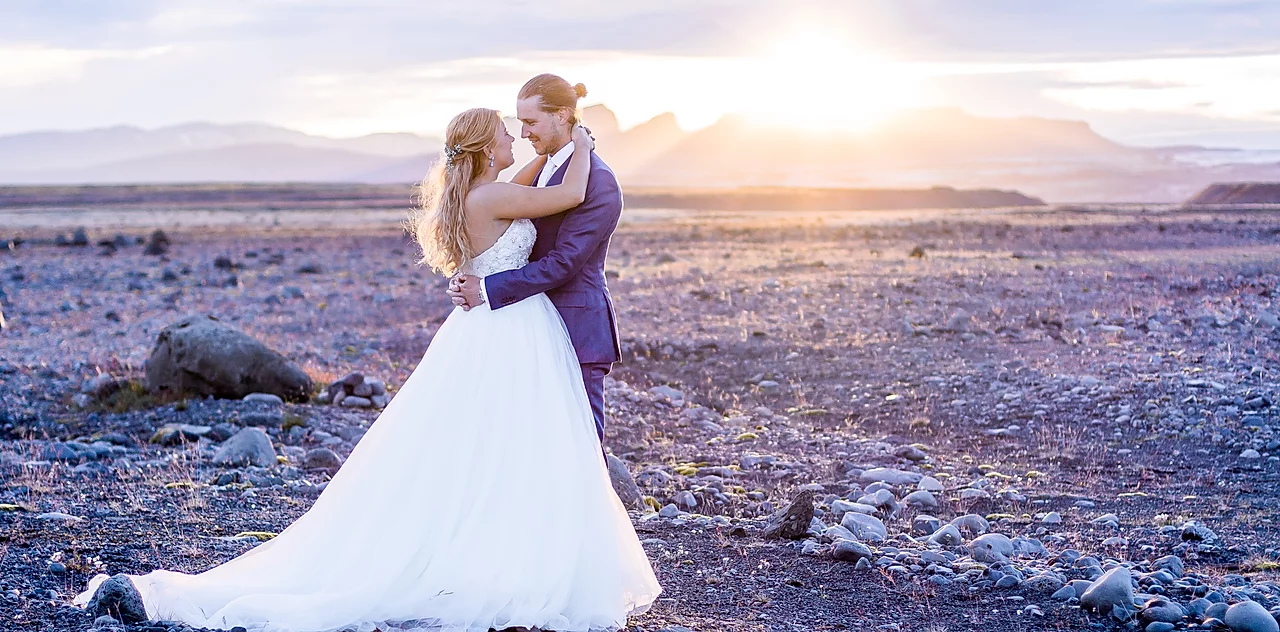
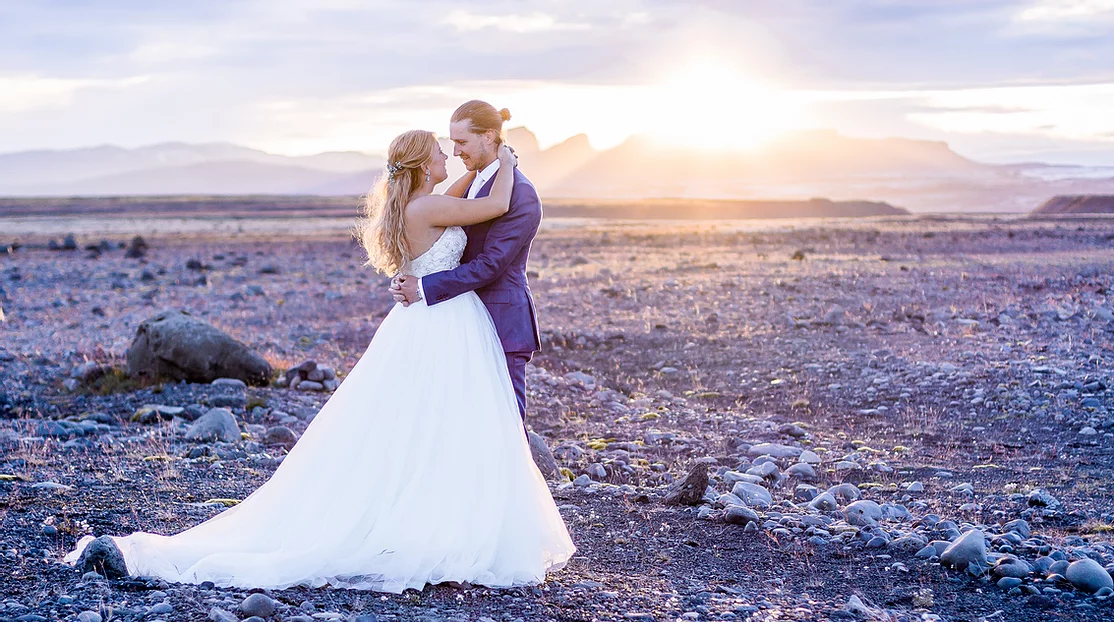
some updates

diff --git a/styles.css b/styles.css
@@ -28,9 +28,57 @@ label,
     padding-left: 20px;
 }
 
-#navbarTogglerDemo01 img {
+#logo {
     padding: 15px 15px 0;
 }
+#logo:after {
+  
+    animation: shine 5s ease-in-out  infinite;
+    animation-fill-mode: forwards;  
+    content: "";
+    position: absolute;
+    top: -110%;
+    left: -210%;
+    width: 200%;
+    height: 200%;
+    opacity: 0;
+    transform: rotate(30deg);
+    
+    background: rgba(255, 255, 255, 0.13);
+    background: linear-gradient(
+      to right, 
+      rgba(255, 255, 255, 0.13) 0%,
+      rgba(255, 255, 255, 0.13) 77%,
+      rgba(255, 255, 255, 0.5) 92%,
+      rgba(255, 255, 255, 0.0) 100%
+    );
+  }
+  
+  /* Hover state - trigger effect */
+  
+  
+  /* Active state */
+  
+  #logo:active:after {
+    opacity: 0;
+  }
+  
+  @keyframes shine{
+    10% {
+      opacity: 1;
+      top: -30%;
+      left: -30%;
+      transition-property: left, top, opacity;
+      transition-duration: 0.7s, 0.7s, 0.15s;
+      transition-timing-function: ease;
+    }
+    100% {
+      opacity: 0;
+      top: -30%;
+      left: -30%;
+      transition-property: left, top, opacity;
+    }
+  }
 
 .nav-item a {
     margin: 0 80px 0;
@@ -45,18 +93,7 @@ label,
 
 
 /* Carousel */
-/* 
-.carousel-control-prev-icon,
-.carousel-control-next-icon {
-    height: 100px;
-    width: 100px;
-    outline: black;
-    background-size: 100%, 100%;
-    border-radius: 50%;
-    border: 1px solid black;
-    background-image: none;
-}
- */
+
 .carousel-control-next-icon:after {
     content: '>';
     font-size: 55px;
@@ -91,10 +128,11 @@ label,
 
 
 .carousel-item img {
-    height: 100% !important;
+    height: 60em;
     width: 60%;
     margin: 5px;
     border-radius: 1rem;
+    object-fit: cover;
 }
 
 #features {
@@ -179,10 +217,12 @@ label,
 
 #about-me h1 {
     padding: 2% 0 4%;
+    margin-left: 1em;
 }
 
 #about-me h3 {
     padding: 2% 0 4%;
+    margin-left: 1em;
 }
 
 /* contact form */

diff --git a/index.html b/index.html
@@ -203,7 +203,7 @@
         <!-- about jessie -->
         <section id="about-me">
             <div class="row">
-                <img src="jessie.jpg" alt="jessie" class="col-lg-6">
+                <img src="./images/jessie.jpg" alt="jessie" class="col-lg-6">
                 <div class="col-lg-6">
                     <h1>KORT OM MIG</h1>
                     <h3>"Det kan man DIYa själv"</h3>
@@ -227,7 +227,7 @@
             <h3>Kontakta Mig</h3>
             <p>Hör av er på vardagar, 9.00-17.00 eller helger mellan 9.00-15.00, på nummer 0767-098649. Ni kan
                 självklart skriva till mig på fluffybyjessie@gmail.com när ni vill. Jag återkommer så snart jag fått in
-                er förfrågan. :)</p>
+                er förfrågan. 🙂</p>
             <form id="contact-form">
                 <div class="row">
                     <div class="labels col-lg-3 col-md-6 col-sm-6 col-xs-6">
@@ -245,9 +245,9 @@
                         <input type="date"></div>
                     <div class="col-lg-6"> <label for="subject">Berätta lite om er och eran stora dag! :)<br></label>
                         <textarea rows="5" cols="70" placeholder="*Vad är det finaste ni har? (det kan vara vad som helst)
- *Hur träffades ni?*Vad har ni för förväntningar?
- *Vad är eran plan?
- *Vad är äkta kärlek för er?*Varför valde ni just mig?"></textarea>
+                            *Hur träffades ni?*Vad har ni för förväntningar?
+                            *Vad är eran plan?
+                            *Vad är äkta kärlek för er?*Varför valde ni just mig?"></textarea>
                         <button class="btn btn-dark">Skicka</button></div>
 
                 </div>
